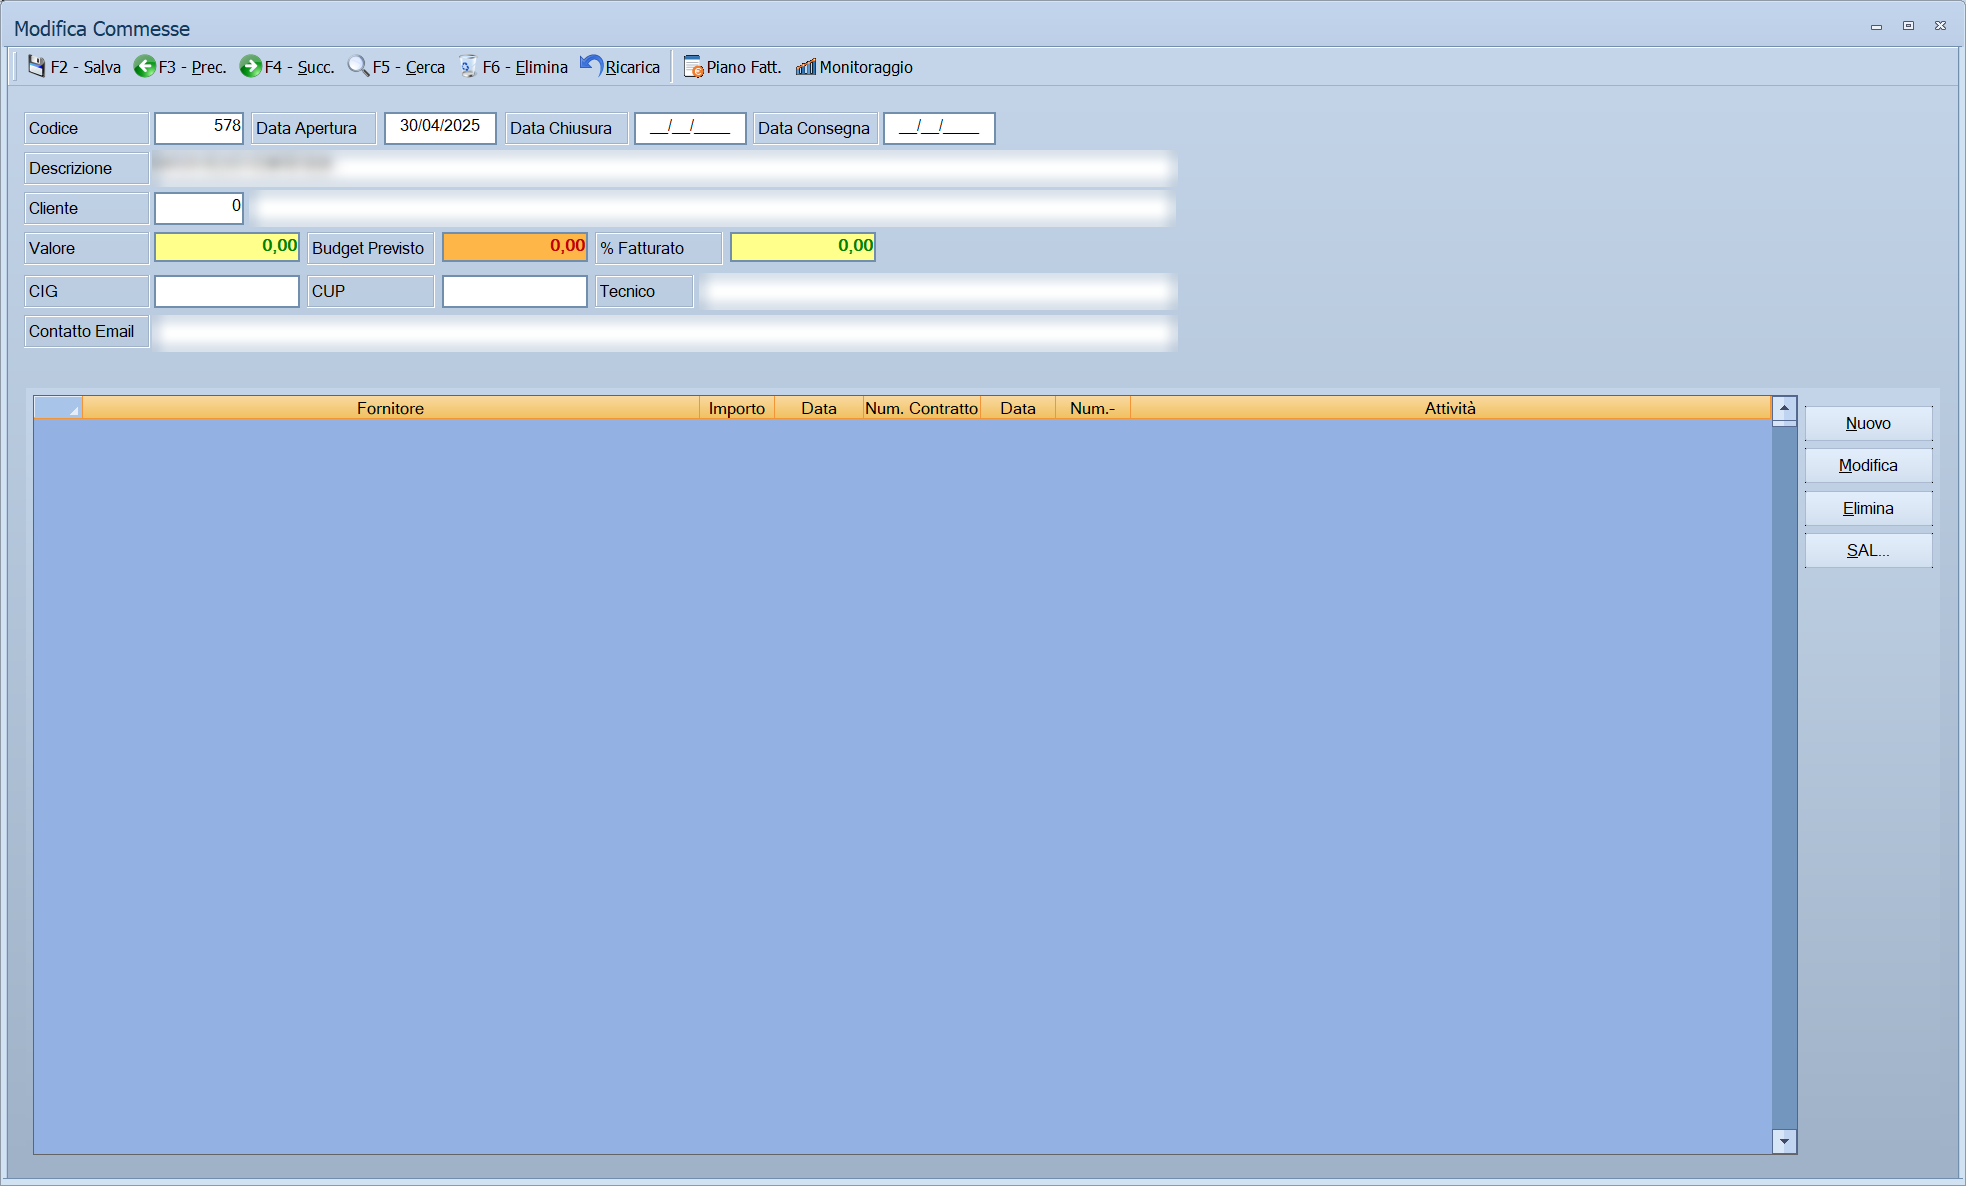
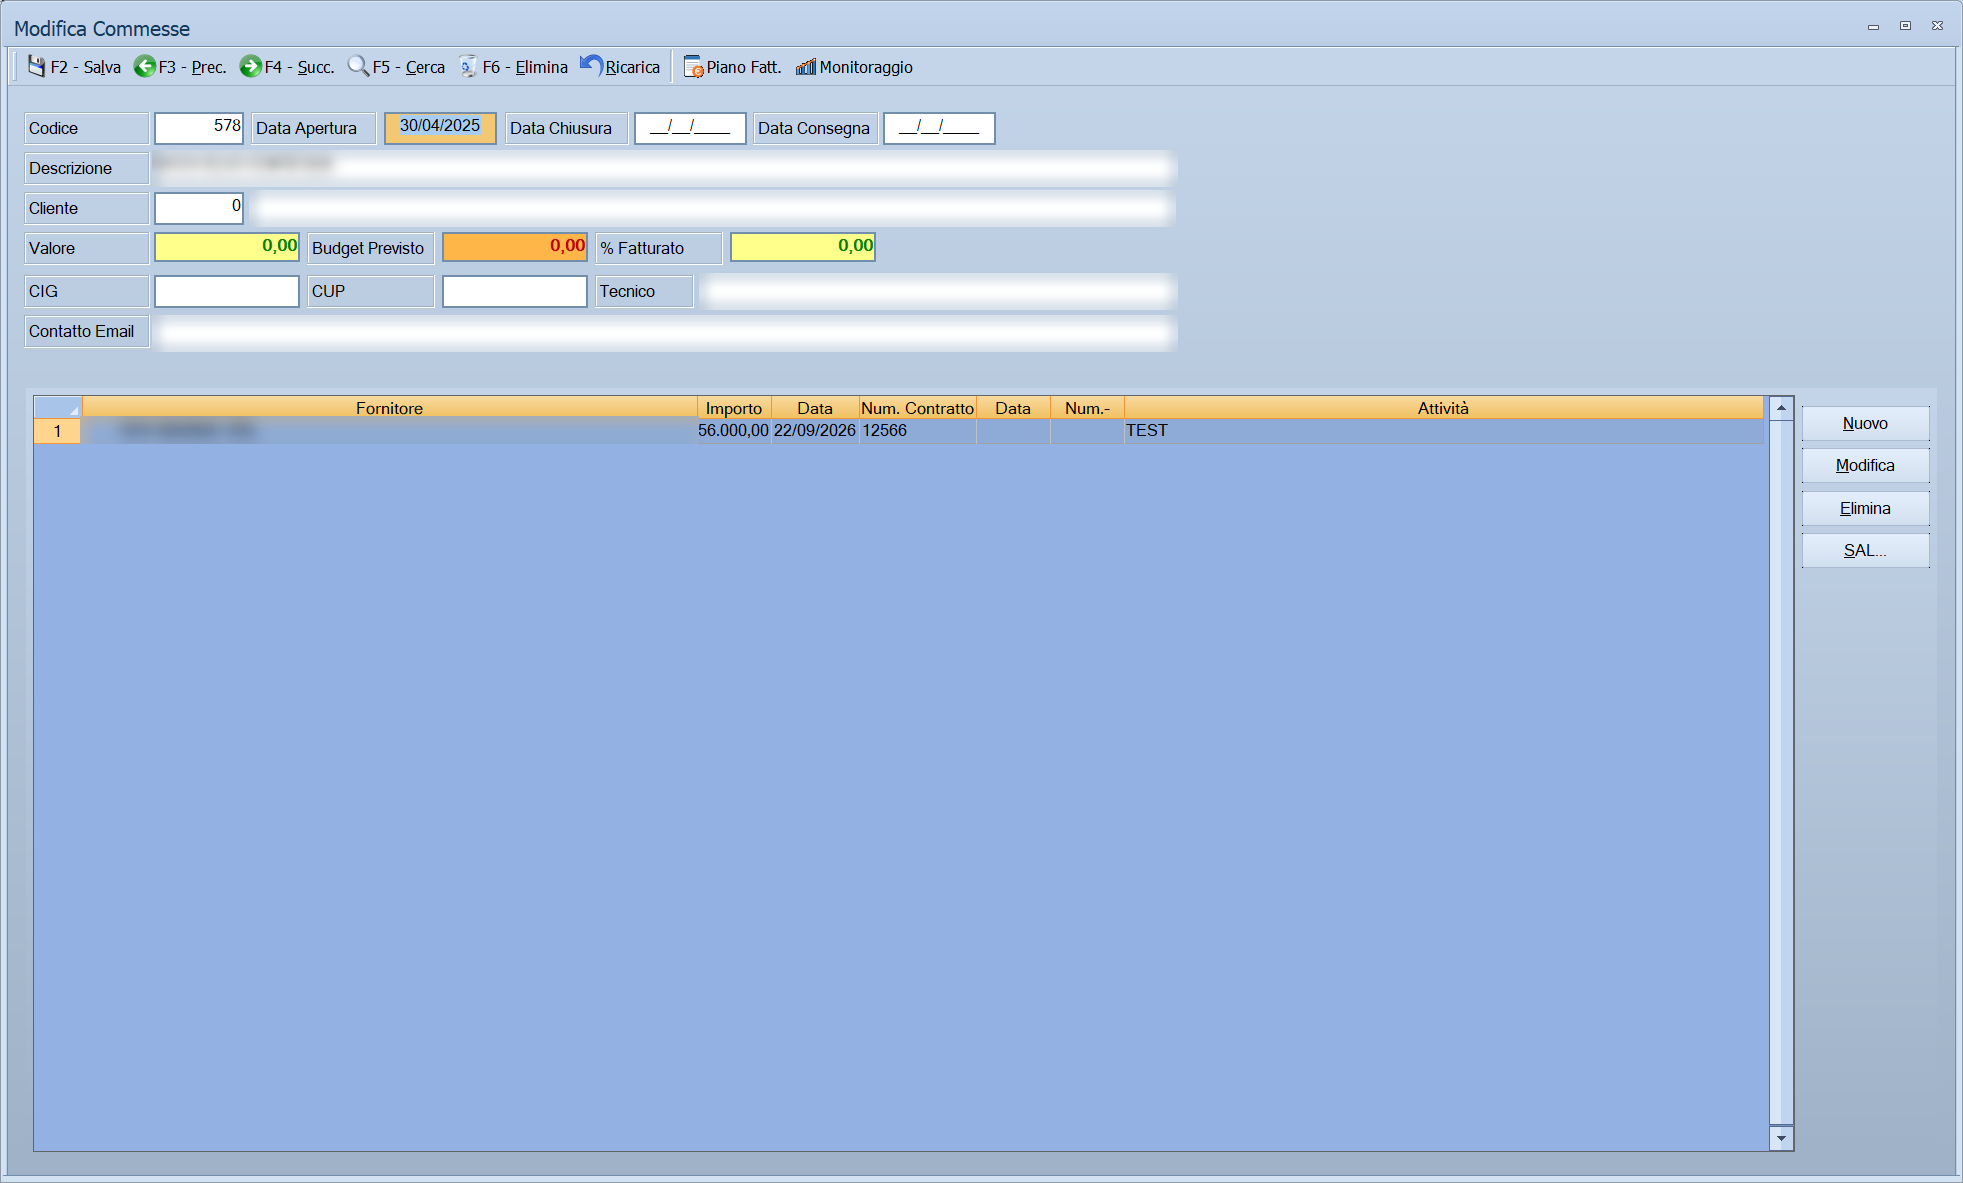
Offuscamento del titolo: fermarsi prima dei pulsanti di sistema
La copertura della barra del titolo funzionava a finestra inattiva e mancava
a finestra attiva, che e' poi come la si cattura. Il motivo: la didascalia si
individua cercando le colonne con del testo, e quando la finestra ha il fuoco
la X di chiusura e' abbastanza scura da passare per testo. Contandola, la
didascalia risultava lunga il triplo, il punto dove tagliare cadeva nel vuoto
a destra, e la regione - senza inchiostro dentro - veniva pure scartata: la
ragione sociale restava in chiaro senza che niente lo segnalasse.

Ora la scansione si ferma al primo vuoto largo, che e' lo spazio fra la
didascalia e i pulsanti. Verificato su "SAL Subappaltatore - <fornitore>": il
taglio cade esatto dopo il separatore, e su un titolo senza separatore non si
copre niente come prima.

Con la correzione, le due schermate che mancavano: la finestra di inserimento
di un SAL - che appena aperta mostra gli elenchi spenti e l'invito a salvare,
cioe' esattamente quello che la pagina racconta a parole - e la scheda
Subappaltatori, ora con una riga vera invece che vuota.

mkdocs build --strict: nessun warning.

diff --git a/tools/offusca.py b/tools/offusca.py
@@ -322,7 +322,17 @@ def regione_titolo(immagine, titolo: str, alt_banda: int, regole: dict) -> list:
                if any(px[x, y] < 170 for y in range(alto, basso))]
     if not colonne:
         return []
-    sinistra, destra = colonne[0], colonne[-1]
+    # ci si ferma al primo vuoto largo: dopo la didascalia, sulla destra, ci
+    # sono i pulsanti di sistema, e quando la finestra e' attiva la X e'
+    # abbastanza scura da passare per testo. Contandola, la didascalia
+    # risultava lunga il triplo e il taglio cadeva nel vuoto: la regione non
+    # copriva piu' niente e, non avendo inchiostro, veniva pure scartata.
+    sinistra = destra = colonne[0]
+    salto = max(int(alt_banda * 1.2), 24)
+    for c in colonne[1:]:
+        if c - destra > salto:
+            break
+        destra = c
 
     quota = _quota_del_prefisso(titolo, prefisso)
     x = sinistra + int((destra - sinistra) * quota) if quota is not None else sinistra

diff --git a/docs/moduli/contabilita/sal-subappaltatore.md b/docs/moduli/contabilita/sal-subappaltatore.md
@@ -61,6 +61,11 @@ alla prima, nascondendola: in alto i tre dati del SAL, al centro le **fatture
 collegate**, in basso quelle **non ancora utilizzate**, e fra i due elenchi i
 comandi per spostare una fattura dall'uno all'altro.
 
+![Inserimento SAL Subappaltatore](../../assets/img/contabilita/sal-subappaltatore-inserimento.png)
+
+Appena aperta è come nell'immagine: i due elenchi sono spenti e al posto
+dell'intestazione si legge l'invito a salvare.
+
 ## Campi
 
 ### L'elenco dei SAL
